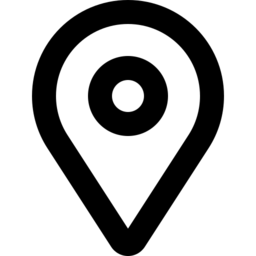
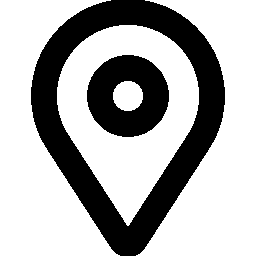
a

diff --git a/test_client/index.html b/test_client/index.html
@@ -26,7 +26,7 @@
       </label>
       <label>
         <input type="radio" name="menu" v-model="view" value="4">
-        <img src="./images/icon_map.png">
+        <img src="./images/icon_map2.png">
       </label>
     </div>
 

diff --git a/test_client/index.css b/test_client/index.css
@@ -63,7 +63,7 @@ body {
     flex: 1;
     position: relative;
     display: block;
-    border: 2px solid green;
+    border: 2px solid var(--white);
     background-color: var(--gray_trans);
 }
 
